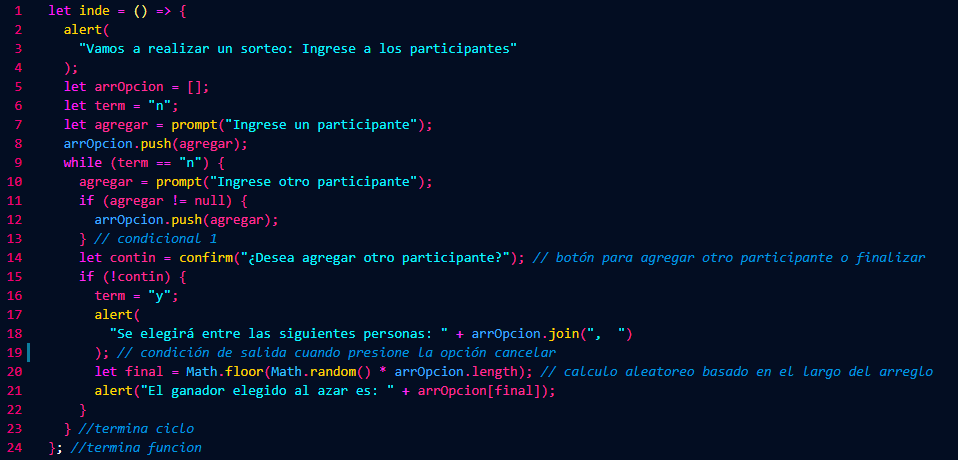
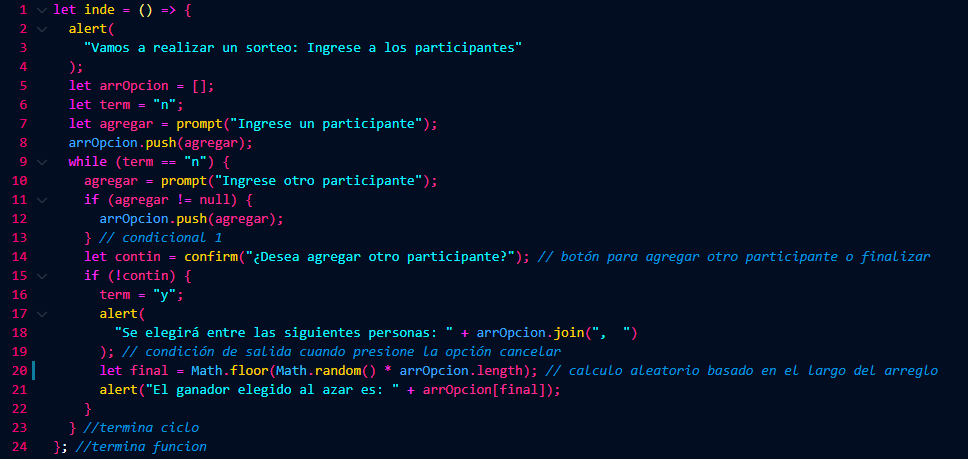
desafio obligatorio 1.2

diff --git a/js/obligatorio.js b/js/obligatorio.js
@@ -17,7 +17,7 @@ let inde = () => {
       alert(
         "Se elegirá entre las siguientes personas: " + arrOpcion.join(",  ")
       ); // condición de salida cuando presione la opción cancelar
-      let final = Math.floor(Math.random() * arrOpcion.length); // calculo aleatoreo basado en el largo del arreglo
+      let final = Math.floor(Math.random() * arrOpcion.length); // calculo aleatorio basado en el largo del arreglo
       alert("El ganador elegido al azar es: " + arrOpcion[final]);
     }
   } //termina ciclo
